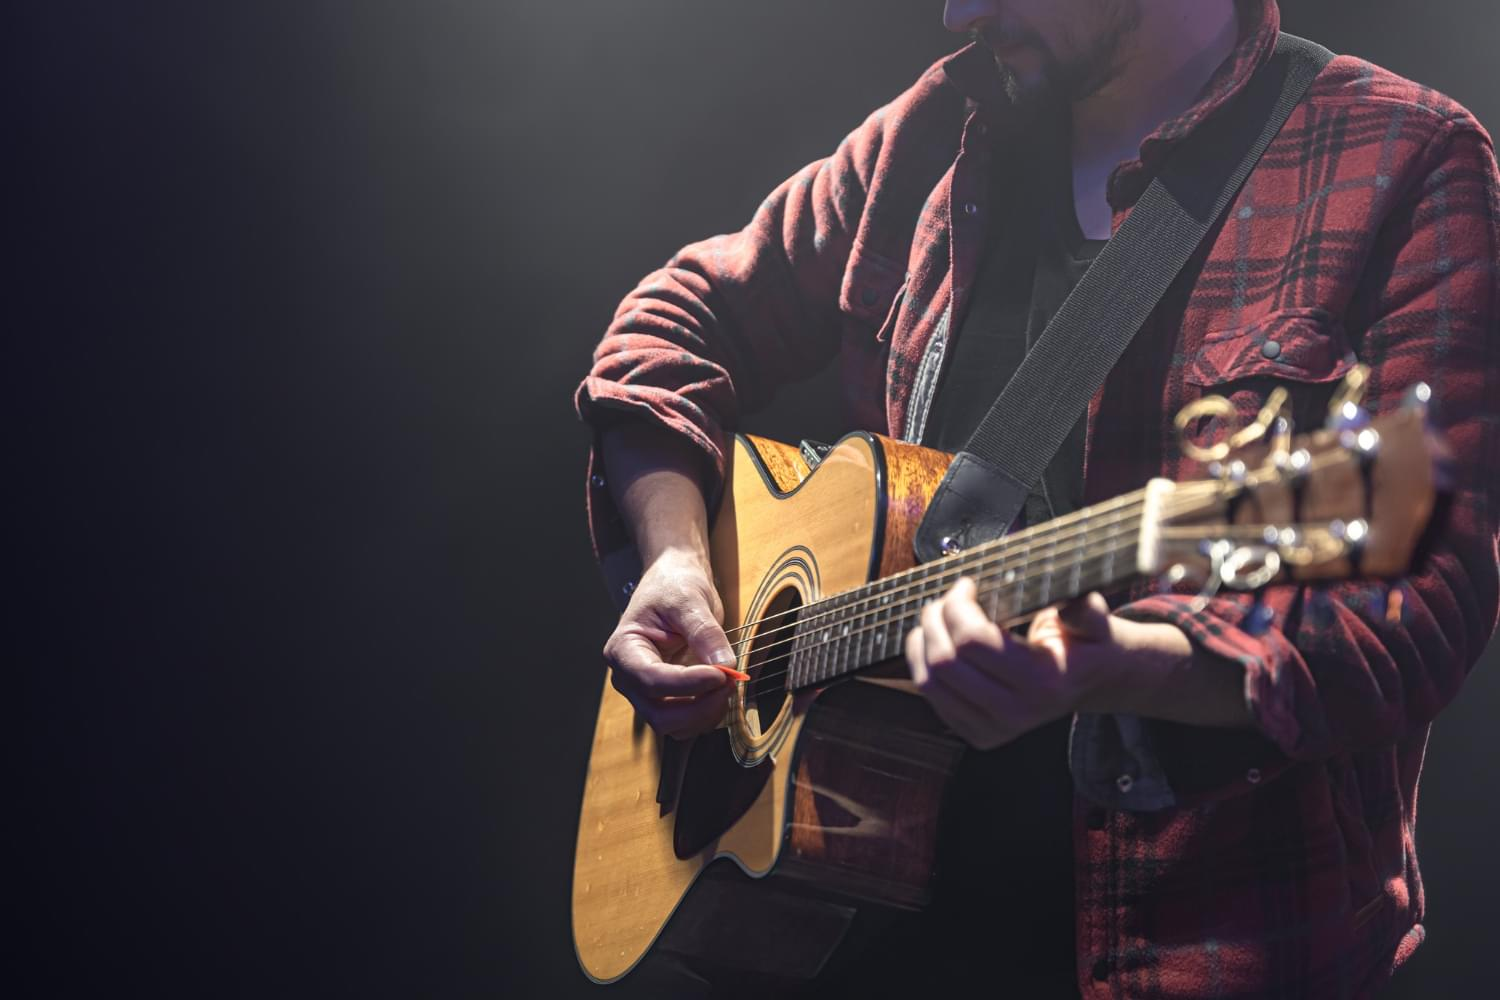
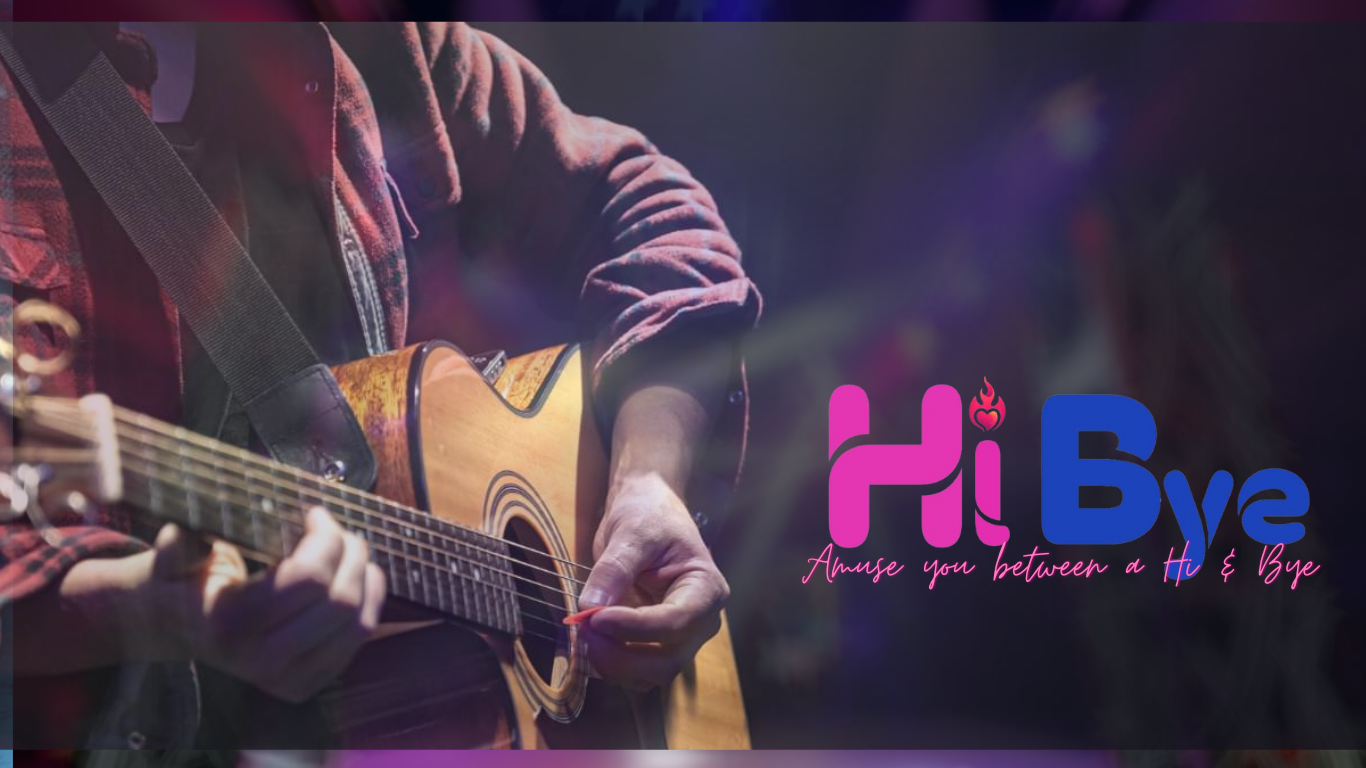
changed the home image

diff --git a/index.html b/index.html
@@ -39,7 +39,7 @@
 
   <!-- ======= Hero Section ======= -->
   <section id="hero">
-    <div class="hero-container">
+    <div class="hero-container" style="background-image: url(assets/img/male-musician-playing-acoustic-guitar-dark-room-copy-space.jpg);">
       <h1>Welcome to HiBye</h1>
       <h2>Amuse you between a hi & bye</h2>
       <a href="#about" class="btn-get-started scrollto">Get Started</a>
@@ -50,7 +50,7 @@
   <header id="header" class="d-flex align-items-center ">
     <div class="container-fluid d-flex align-items-center justify-content-lg-between">
 
-      <h1 class="logo me-auto me-lg-0"><a href="index.html">HIBYE</a></h1>
+      <h1 class="logo me-auto me-lg-0"><a href="index.html">HiBye</a></h1>
       <!-- Uncomment below if you prefer to use an image logo -->
       <!-- <a href="index.html" class="logo me-auto me-lg-0"><img src="assets/img/logo.png" alt="" class="img-fluid"></a>-->
 
@@ -107,11 +107,10 @@
           <div class="col-lg-12">
        
               <p style="font-style:oblique;">
-              Hibye entertainments is an entertainment hub located at the middle heart of Kochi.
-The highlight of Hibye is that anyone can make this place as a platform for their own entertainments.
+              HiBye entertainments is an entertainment hub located at the middle heart of Kochi.
+The highlight of HiBye is that anyone can make this place as a platform for their own entertainments.
 In private cabrooms anybody can play games, instruments, watch movies, hear songs, read books,and many more by book slots online.
 Wherever you are, you can book slots in advance and spend your time at our location.
-The slots are hourly, anyone can book by slot wise.
 Also there is a space where anyone can host client meetings, presentations, sittings by early booking.</p>
             <ul>
               <li style="font-style:oblique;"><i class="ri-check-double-line"></i><marquee behavior="slide" direction="left"scrollamount="90">Book your cabins according to your time slot</li></marquee>
@@ -135,44 +134,7 @@ Also there is a space where anyone can host client meetings, presentations, sitt
       </div>
     </section><!-- End About Section -->
 
-    <!-- ======= Counts Section ======= -->
-
-    <section id="about" style="font-style:oblique;" class="about">
-      <div class="container">
-
-        <div class="section-title">
-          <h2>Countdown</h2>
-        </div>
-
-    <section id="counts" class="counts">
-      <div class="container">
-
-        <div class="row counters">
-
-          <div class="col-lg-3 col-6 text-center">
-            <span data-purecounter-start="0" data-purecounter-end="2" data-purecounter-duration="1" class="purecounter"></span>
-            <p>Weeks</p>
-          </div>
-
-          <div class="col-lg-3 col-6 text-center">
-            <span data-purecounter-start="0" data-purecounter-end="14" data-purecounter-duration="1" class="purecounter"></span>
-            <p>Days</p>
-          </div>
-
-          <div class="col-lg-3 col-6 text-center">
-            <span data-purecounter-start="0" data-purecounter-end="98" data-purecounter-duration="1" class="purecounter"></span>
-            <p>Hours</p>
-          </div>
-
-          <div class="col-lg-3 col-6 text-center">
-            <span data-purecounter-start="0" data-purecounter-end="5880" data-purecounter-duration="1" class="purecounter"></span>
-            <p>Minutes</p>
-          </div>
-
-        </div>
-
-      </div>
-    </section><!-- End Counts Section -->
+    
 
    
     </section><!-- End Clients Section -->
@@ -180,64 +142,65 @@ Also there is a space where anyone can host client meetings, presentations, sitt
     <!-- ======= Services Section ======= -->
 
     <section id="services" style="font-style:italic;" class="services" >
-      <div class="container">
-
-        <div class="section-title">
+      <div class="container" style="background-color: #FFB6C1;height: 800px; border-radius: 2%;" >
+        <div class="section-title" style="color: #000000;">
           <h2>Services</h2>
-          <p>
-            HI-BYE is primarily responsible for providing a comfortable entertainment cabin and for ensuring the acceptability of the services as promised by HI-BYE to its customers.
+          <p style="color: #000000;">
+            HiBye is primarily responsible for providing a comfortable zone and for ensuring the acceptability of the services as promised by HiBye to its customers.
             </p>
         </div>
 
         <div class="row">
           <div class="col-lg-6 col-md-3 mt-4">
-            <div class="icon-box">
-              <div class="icon"><i class="bi bi-briefcase" style="color: #ff689b;padding: 20%;"></i></div>
+            <div class="icon-box" style="background-color: #ade5fc;">
+              
               <h4 class="title"><a href="Objectives.html">New age customers requirements</a></h4>
-              <p class="description">HI-BYE understands the NEW age Customers requirements and accordingly offers its platform service to its Customer.</p>
+              <p class="description">HiBye understands the NEW age Customers requirements and accordingly offers its platform service to its Customer.</p>
             </div>
           </div>
           <div class="col-lg-6 col-md-6 mt-4">
-            <div class="icon-box">
-              <div class="icon"><i class="bi bi-card-checklist" style="color: #e9bf06;padding: 30%;"></i></div>
+            <div class="icon-box" style="background-color: #ade5fc;">
+              
               <h4 class="title"><a href="Objectives.html">User Comfort</a></h4>
-              <p class="description">In case Customers are not able to book slot from our application, you can call our customer support desk and our team will help you fto book your slot in hibi platform
-                HI-BYE also promises its Users of a comfortable cabin stay experiences at all cabin following amenities:
+              <p class="description">In case Customers are not able to book slot from our application, by a can call to our customer support and our team will your slot.
+                HiBye also promises its Users a comfortable sitting experiences at all cabins with following amenities:
                 AC cabin with Television,
                 Wi-Fi,
                 Hygienic and sanitised cabin,
-                comfortable sitting
+                comfortable sitting,
+                User data privacy, 
+                Customized preferences.
                 </p>
             </div>
           </div>
 
           <div class="col-lg-6 col-md-6 mt-4">
-            <div class="icon-box">
-              <div class="icon"><i class="bi bi-bar-chart" style="color: #3fcdc7;padding: 30%;"></i></div>
+            <div class="icon-box" style="background-color: #ade5fc;">
+             
               <h4 class="title"><a href="Objectives.html">Set out user cabins</a></h4>
-              <p class="description">entertainment cabin with gaming room,streamings&series shows and addons, providing its.</p>
+              <p class="description">entertainment cabin with gaming room,streamings&series shows and addons.</p>
             </div>
           </div>
           <div class="col-lg-6 col-md-6 mt-4">
-            <div class="icon-box">
-              <div class="icon"><i class="bi bi-binoculars" style="color:#41cf2e;padding: 30%;"></i></div>
+            <div class="icon-box"style="background-color: #ade5fc;">
+             
               <h4 class="title"><a href="Objectives.html">User Rights</a></h4>
-              <p class="description">HI-BYE involves the Users right from the time when booking is made through HI-BYE platform and throughout, ensuring that the User gets a comfortable experience.</p>
+              <p class="description">HiBye involves the Users right from the time when booking is made through HiBye platform and throughout, ensuring that the User gets a good experience.</p>
             </div>
           </div>
 
           <div class="col-lg-6 col-md-6 mt-4">
-            <div class="icon-box">
-              <div class="icon"><i class="bi bi-brightness-high" style="color: #d6ff22;padding: 30%;"></i></div>
+            <div class="icon-box" style="background-color: #ade5fc;">
+              
               <h4 class="title"><a href="Objectives.html">Security</a></h4>
-              <p class="description">We value your trust in providing us your Personal Information, thus we are striving to use commercially acceptable means of protecting it. But remember that no method of transmission over the internet, or method of electronic storage is 100% secure and reliable, and we cannot guarantee its absolute security.</p>
+              <p class="description" >We value your trust in providing us your Personal Information, thus we are striving to use commercially acceptable means of protecting it. But remember that no method of transmission over the internet, or method of electronic storage is 100% secure and reliable, and we cannot guarantee its absolute security.</p>
             </div>
           </div>
           <div class="col-lg-6 col-md-6 mt-4">
-            <div class="icon-box">
-              <div class="icon"><i class="bi bi-calendar4-week" style="color: #4680ff;padding: 30%;"></i></div>
+            <div class="icon-box"style="background-color: #ade5fc;" >
+
               <h4 class="title"><a href="Objectives.html">User Restrictions</a></h4>
-              <p class="description">These are maily for privacy and safety of users like Smoking is not allowedExternal beverages and foods are not allowed
+              <p class="description">These are mainly for privacy and safety of users like Smoking is not allowedExternal beverages and foods are not allowed
                 Any missleads found by the authority. Authority or hibi staffs have right to ask the users to leave the cabin and delete user account
                 Video shootings are not allowed etc.
                 
@@ -255,38 +218,38 @@ Also there is a space where anyone can host client meetings, presentations, sitt
 
         <div class="row">
           <div class="col-md-6 d-flex align-items-stretch">
-            <div class="card" style='background-image: url("assets/img/our-values-1.jpg");'>
+            <div class="card" style='background-image: url("assets/img/assortment-cinema-elements-red-background-with-copy-space.jpg");'>
               <div class="card-body">
                 <h5 class="card-title"><a href="inner-page.html">Eligibility to use</a></h5>
-                <p class="card-text">You must be at least eighteen (18) years of age or above and capable of entering, performing and adhering to these terms.</p>
+                <p class="card-text">The age limit for entering, performing and adhering to these terms should be 18 or above.</p>
                 <div class="read-more"><a href="inner-page.html"><i class="bi bi-arrow-right"></i> Read More</a></div>
               </div>
             </div>
           </div>
           <div class="col-md-6 d-flex align-items-stretch mt-4 mt-md-0">
-            <div class="card" style='background-image: url("assets/img/our-values-2.jpg");'>
+            <div class="card" style='background-image: url("assets/img/0de0ee0d9ff4561f60e1f33910c91ef9.jpeg");'>
               <div class="card-body">
                 <h5 class="card-title"><a href="inner-page.html">Account Registration and use</a></h5>
-                <p class="card-text">HI-BYE platform makes the Services available to you through the HI-BYE application platform upon you providing HI-BYE platform certain required User information and having created an account.</p>
+                <p class="card-text">HiBye platform makes the Services available to you through the HiByeE application platform upon you providing HiBye platform certain required User information and having created an account.</p>
                 <div class="read-more"><a href="inner-page.html"><i class="bi bi-arrow-right"></i> Read More</a></div>
               </div>
             </div>
             
           </div>
           <div class="col-md-6 d-flex align-items-stretch mt-4">
-            <div class="card" style='background-image: url("assets/img/our-values-3.jpg");'>
+            <div class="card" style='background-image: url("assets/img/our-values-2.jpg");'>
               <div class="card-body">
-                <h5 class="card-title"><a href="inner-page.html">HI-BYE Services</a></h5>
-                <p class="card-text">HI-BYE is primarily responsible for providing a comfortable entertainment cabin and for ensuring the acceptability of the services as promised by HI-BYE to its customers.</p>
+                <h5 class="card-title"><a href="inner-page.html">HiBye Services</a></h5>
+                <p class="card-text">HiBye is primarily responsible for providing a comfortable entertainment cabin and for ensuring the acceptability of the services as promised by HiBye to its customers.</p>
                 <div class="read-more"><a href="inner-page.html"><i class="bi bi-arrow-right"></i> Read More</a></div>
               </div>
             </div>
           </div>
           <div class="col-md-6 d-flex align-items-stretch mt-4">
-            <div class="card" style='background-image: url("assets/img/our-values-4.jpg");'>
+            <div class="card" style='background-image: url("assets/img/male-musician-playing-acoustic-guitar-dark-room-copy-space.jpg");'>
               <div class="card-body">
                 <h5 class="card-title"><a href="inner-page.html">Term & Termination</a></h5>
-                <p class="card-text">In case you wish to discontinue you can at any point opt out of your membership of the HI-BYE Platform.HI-BYE deserves.b </p>
+                <p class="card-text">In case you wish to discontinue you can at any point opt out of your membership of the HiBye Platform. </p>
                 <div class="read-more"><a href="inner-page.html"><i class="bi bi-arrow-right"></i> Read More</a></div>
               </div>
             </div>
@@ -480,7 +443,7 @@ Also there is a space where anyone can host client meetings, presentations, sitt
 
     <div class="container footer-bottom clearfix">
       <div class="copyright">
-        &copy; Copyright <strong><span>Hibye</span></strong>. All Rights Reserved
+        &copy; Copyright <strong><span>HiBye</span></strong>. All Rights Reserved
       </div>s
       <div class="credits">
         <!-- All the links in the footer should remain intact. -->
